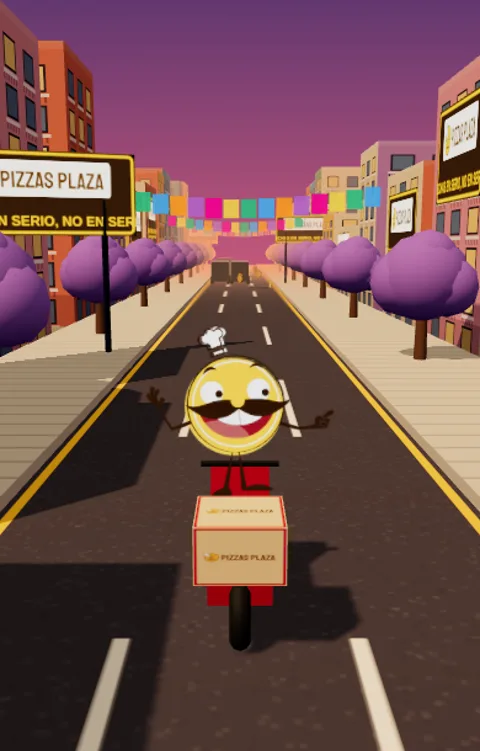
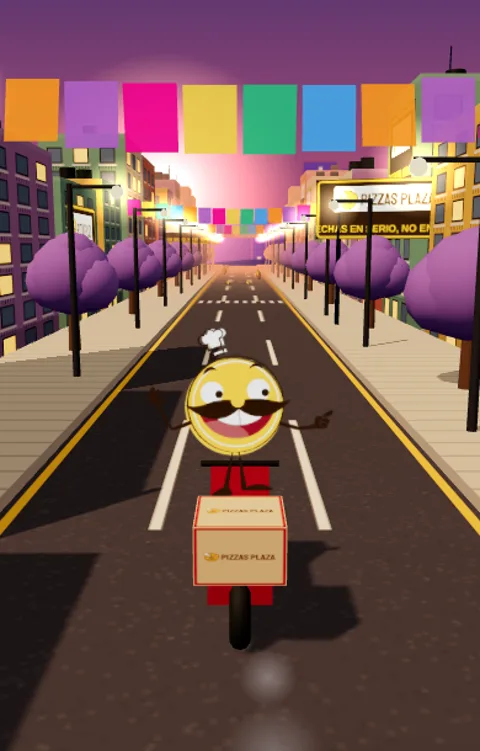
Juegos 3D más bonitos: pizzería completa en Torre; ciudad con luces, tinacos y humo en Reparto
Claude-Session: https://claude.ai/code/session_019rUShXu8QUnKqHiJVXwCAX

diff --git a/juegos/reparto-plaza/index.html b/juegos/reparto-plaza/index.html
@@ -88,7 +88,7 @@ const rnd=(a,b)=>a+Math.random()*(b-a), elige=a=>a[Math.random()*a.length|0];
 const cv=$('gl');
 const ren=new THREE.WebGLRenderer({canvas:cv,antialias:true});
 ren.setPixelRatio(Math.min(1.75,devicePixelRatio||1)); ren.shadowMap.enabled=true; ren.shadowMap.type=THREE.PCFSoftShadowMap;
-ren.outputColorSpace=THREE.SRGBColorSpace; ren.toneMapping=THREE.ACESFilmicToneMapping; ren.toneMappingExposure=1.1;
+ren.outputColorSpace=THREE.SRGBColorSpace; ren.toneMapping=THREE.ACESFilmicToneMapping; ren.toneMappingExposure=1.05;
 const escena=new THREE.Scene(), cam=new THREE.PerspectiveCamera(60,1,.1,260);
 function tamano(){ const w=innerWidth,h=innerHeight; ren.setSize(w,h,false); cam.aspect=w/h; cam.fov=w<h?68:55; cam.updateProjectionMatrix(); }
 addEventListener('resize',tamano); tamano();
@@ -111,9 +111,11 @@ async function texturas(){
   T.calle.wrapS=T.calle.wrapT=THREE.RepeatWrapping; T.calle.repeat.set(1,LARGO/16);
   T.banqueta=lienzo(128,128,(g,w,h)=>{ g.fillStyle='#CFC6B8'; g.fillRect(0,0,w,h); g.strokeStyle='#A99F92'; g.lineWidth=3; for(let i=0;i<=4;i++){ g.beginPath(); g.moveTo(0,i*h/4); g.lineTo(w,i*h/4); g.stroke(); } });
   T.banqueta.wrapS=T.banqueta.wrapT=THREE.RepeatWrapping; T.banqueta.repeat.set(2,LARGO/4);
-  T.fachadas=COLORES.map(c=>lienzo(256,512,(g,w,h)=>{ g.fillStyle=c; g.fillRect(0,0,w,h); g.fillStyle='rgba(255,255,255,.12)'; g.fillRect(0,0,w,14);
-    for(let y=40;y<h-40;y+=70) for(let x=24;x<w-40;x+=78){ g.fillStyle='#3A3346'; g.fillRect(x,y,46,48); g.fillStyle=Math.random()<.4?'#FFD98A':'#6F86A8'; g.fillRect(x+4,y+4,38,40); g.fillStyle='rgba(255,255,255,.85)'; g.fillRect(x-4,y+50,54,6); g.fillStyle='#2A2433'; for(let k=0;k<6;k++) g.fillRect(x-2+k*9,y+56,2,10); }
-    g.fillStyle='rgba(0,0,0,.18)'; g.fillRect(0,h-60,w,60); }));
+  T.fachadas=[]; T.luces=[]; COLORES.forEach(c=>{ const ven=[]; for(let y=40;y<512-40;y+=70) for(let x=24;x<256-40;x+=78) ven.push([x,y,Math.random()<.38]);
+    T.fachadas.push(lienzo(256,512,(g,w,h)=>{ g.fillStyle=c; g.fillRect(0,0,w,h); g.fillStyle='rgba(255,255,255,.12)'; g.fillRect(0,0,w,14);
+      ven.forEach(([x,y,on])=>{ g.fillStyle='#3A3346'; g.fillRect(x,y,46,48); g.fillStyle=on?'#FFD98A':'#6F86A8'; g.fillRect(x+4,y+4,38,40); g.fillStyle='rgba(255,255,255,.85)'; g.fillRect(x-4,y+50,54,6); g.fillStyle='#2A2433'; for(let k=0;k<6;k++) g.fillRect(x-2+k*9,y+56,2,10); });
+      g.fillStyle='rgba(0,0,0,.18)'; g.fillRect(0,h-60,w,60); }));
+    T.luces.push(lienzo(256,512,(g,w,h)=>{ g.fillStyle='#000'; g.fillRect(0,0,w,h); ven.forEach(([x,y,on])=>{ if(on){ g.fillStyle='#FFB54A'; g.fillRect(x+4,y+4,38,40); } }); })); });
   T.letrero=lienzo(1024,420,(g,w,h)=>{ g.fillStyle='#422913'; g.beginPath(); g.roundRect(0,0,w,h,30); g.fill(); g.strokeStyle='#FCC10C'; g.lineWidth=14; g.beginPath(); g.roundRect(14,14,w-28,h-28,24); g.stroke();
     if(logo){ const lw=w*.7, lh=lw*logo.height/logo.width; g.fillStyle='#FFF8E7'; g.beginPath(); g.roundRect(w/2-lw/2-20,48,lw+40,lh+30,20); g.fill(); g.drawImage(logo,w/2-lw/2,63,lw,lh); }
     g.fillStyle='#FCC10C'; g.font='900 70px "Bebas Neue",Impact,sans-serif'; g.textAlign='center'; g.textBaseline='middle'; g.fillText('HECHAS EN SERIO, NO EN SERIE',w/2,h-68); });
@@ -127,12 +129,17 @@ async function texturas(){
 }
 
 // ---------------- mundo ----------------
+const CACHE={}; const C=(k,f)=>CACHE[k]||(CACHE[k]=f());
 const mueve=[]; // todo lo que pasa hacia la cámara y se recicla
 let moto, plaz, ruedas=[], calle;
 function mat(o){ return new THREE.MeshStandardMaterial(Object.assign({roughness:.8},o)); }
 function edificio(lado,z){ const g=new THREE.Group(), w=rnd(6,9), h=rnd(7,15), d=rnd(7,10);
-  const m=new THREE.Mesh(new THREE.BoxGeometry(w,h,d),[mat({map:elige(T.fachadas)}),mat({map:elige(T.fachadas)}),mat({color:0x8A7F8C}),mat({color:0x555}),mat({map:elige(T.fachadas)}),mat({map:elige(T.fachadas)})]);
-  m.position.y=h/2; m.castShadow=m.receiveShadow=true; g.add(m);
+  const fa=()=>{ const k=Math.random()*T.fachadas.length|0; return mat({map:T.fachadas[k],emissiveMap:T.luces[k],emissive:0xFFFFFF,emissiveIntensity:.9}); };
+  const m=new THREE.Mesh(new THREE.BoxGeometry(w,h,d),[fa(),fa(),mat({color:0x8A7F8C}),mat({color:0x555}),fa(),fa()]);
+  m.position.y=h/2;
+  // tinacos y antena en la azotea
+  for(let t=0;t<1+(Math.random()*2|0);t++){ const ti=new THREE.Mesh(C('tg',()=>new THREE.CylinderGeometry(.55,.55,1.1,14)),C('tm',()=>mat({color:0x1C1C1C,roughness:.5}))); ti.position.set(rnd(-w/3,w/3),h+.55,rnd(-d/3,d/3)); ti.castShadow=true; g.add(ti); }
+  if(Math.random()<.5){ const an=new THREE.Mesh(C('ag',()=>new THREE.CylinderGeometry(.04,.04,2.4,5)),C('am',()=>mat({color:0x444}))); an.position.set(rnd(-w/3,w/3),h+1.2,rnd(-d/3,d/3)); g.add(an); } m.castShadow=m.receiveShadow=true; g.add(m);
   if(Math.random()<.35){ const t=new THREE.Mesh(new THREE.PlaneGeometry(d*.8,4),new THREE.MeshBasicMaterial({map:T.letrero})); t.position.set(-lado*(w/2+.05),h-3.2,0); t.rotation.y=-lado*Math.PI/2; g.add(t); }
   g.position.set(lado*(9+w/2),0,z); g.userData={tipo:'deco',lado}; escena.add(g); mueve.push(g); }
 function jacaranda(lado,z){ const g=new THREE.Group(); const tr=new THREE.Mesh(new THREE.CylinderGeometry(.18,.25,2.6,8),mat({color:0x6B4A2E})); tr.position.y=1.3; tr.castShadow=true; g.add(tr);
@@ -141,6 +148,15 @@ function jacaranda(lado,z){ const g=new THREE.Group(); const tr=new THREE.Mesh(n
 function espectacular(lado,z){ const g=new THREE.Group(); const p=mat({color:0x333}); [-2.4,2.4].forEach(x=>{ const c=new THREE.Mesh(new THREE.CylinderGeometry(.12,.12,6,8),p); c.position.set(x,3,0); g.add(c); });
   const t=new THREE.Mesh(new THREE.BoxGeometry(7.2,3,.2),[p,p,p,p,new THREE.MeshBasicMaterial({map:T.letrero}),p]); t.position.y=6.2; t.castShadow=true; g.add(t);
   g.position.set(lado*7.4,0,z); g.rotation.y=-lado*.35; g.userData={tipo:'deco'}; escena.add(g); mueve.push(g); }
+const humo=[]; let humoT=0;
+function poste(lado,z){ const g=new THREE.Group(); const gris=C('pm',()=>mat({color:0x3B3B44,roughness:.5,metalness:.4}));
+  const p=new THREE.Mesh(C('pg',()=>new THREE.CylinderGeometry(.09,.12,6.2,8)),gris); p.position.y=3.1; p.castShadow=true; g.add(p);
+  const b=new THREE.Mesh(C('bg',()=>new THREE.BoxGeometry(1.6,.1,.1)),gris); b.position.set(-lado*.75,6.1,0); g.add(b);
+  const f=new THREE.Mesh(C('fg',()=>new THREE.SphereGeometry(.2,10,8)),C('fm',()=>new THREE.MeshBasicMaterial({color:0xFFE7B0}))); f.position.set(-lado*1.45,5.95,0); g.add(f);
+  const gl=new THREE.Sprite(C('gl',()=>new THREE.SpriteMaterial({map:lienzo(64,64,(c,w,h)=>{ const gr=c.createRadialGradient(32,32,0,32,32,32); gr.addColorStop(0,'rgba(255,220,150,.9)'); gr.addColorStop(1,'rgba(255,180,90,0)'); c.fillStyle=gr; c.fillRect(0,0,64,64); }),blending:THREE.AdditiveBlending,depthWrite:false,transparent:true}))); gl.scale.set(2.2,2.2,1); gl.position.copy(f.position); g.add(gl);
+  g.position.set(lado*5.2,0,z); g.userData={tipo:'deco'}; escena.add(g); mueve.push(g); }
+function cebra(z){ const m=new THREE.Mesh(C('cg',()=>new THREE.PlaneGeometry(CARRIL*3,2.6)),C('cm',()=>new THREE.MeshStandardMaterial({map:lienzo(256,64,(g,w,h)=>{ g.clearRect(0,0,w,h); g.fillStyle='rgba(245,240,230,.92)'; for(let x=6;x<w;x+=26) g.fillRect(x,0,14,h); }),transparent:true,roughness:.9})));
+  m.rotation.x=-Math.PI/2; m.position.set(0,.015,z); m.receiveShadow=true; m.userData={tipo:'deco'}; escena.add(m); mueve.push(m); }
 function papelPicado(z){ const g=new THREE.Group(); const cols=[0xE4007C,0xFCC10C,0x00A86B,0x1E90FF,0xFF7A00,0x9B59B6];
   for(let i=0;i<16;i++){ const b=new THREE.Mesh(new THREE.PlaneGeometry(.9,1.1),new THREE.MeshBasicMaterial({color:cols[i%6],side:THREE.DoubleSide,transparent:true,opacity:.92})); const x=-7.5+i; b.position.set(x,7.2-Math.cos(x/7.5*1.4)*.8,0); g.add(b); }
   g.position.z=z; g.userData={tipo:'deco',ondea:true}; escena.add(g); mueve.push(g); }
@@ -158,6 +174,16 @@ async function mundo(){
   for(let z=4;z>-LARGO+20;z-=16){ jacaranda(-1,z); jacaranda(1,z-8); }
   for(let z=-30;z>-LARGO+20;z-=55) espectacular(Math.random()<.5?-1:1,z);
   for(let z=-20;z>-LARGO+20;z-=40) papelPicado(z);
+  for(let z=0;z>-LARGO+20;z-=14){ poste(-1,z); poste(1,z-7); }
+  for(let z=-45;z>-LARGO+20;z-=60) cebra(z);
+  const brillo=lienzo(128,128,(g,w,h)=>{ const gr=g.createRadialGradient(w/2,h/2,0,w/2,h/2,w/2); gr.addColorStop(0,'rgba(255,240,200,1)'); gr.addColorStop(.25,'rgba(255,200,120,.8)'); gr.addColorStop(1,'rgba(255,150,80,0)'); g.fillStyle=gr; g.fillRect(0,0,w,h); });
+  const solS=new THREE.Sprite(new THREE.SpriteMaterial({map:brillo,fog:false,depthWrite:false,blending:THREE.AdditiveBlending})); solS.scale.set(90,90,1); solS.position.set(-25,22,-235); escena.add(solS);
+  const sky=lienzo(2048,256,(g,w,h)=>{ g.clearRect(0,0,w,h); let x=0; while(x<w){ const bw=30+Math.random()*90, bh=40+Math.random()*(Math.random()<.1?200:120); g.fillStyle=`rgba(${90+Math.random()*30|0},${50+Math.random()*20|0},${110+Math.random()*30|0},.85)`; g.fillRect(x,h-bh,bw,bh); for(let k=0;k<bh/14;k++) if(Math.random()<.3){ g.fillStyle='rgba(255,210,140,.7)'; g.fillRect(x+5+Math.random()*(bw-12),h-bh+6+k*14,5,6); } x+=bw+Math.random()*8; }
+    g.fillStyle='rgba(70,40,90,.9)'; g.beginPath(); g.moveTo(0,h); for(let xx=0;xx<=w;xx+=40) g.lineTo(xx,h-30-Math.sin(xx/170)*22-Math.random()*6); g.lineTo(w,h); g.fill(); });
+  const horiz=new THREE.Mesh(new THREE.PlaneGeometry(520,62),new THREE.MeshBasicMaterial({map:sky,transparent:true,fog:false,depthWrite:false})); horiz.position.set(0,24,-238); escena.add(horiz);
+  // humito del escape (sprites reciclados)
+  const humoT=lienzo(64,64,(g,w,h)=>{ const gr=g.createRadialGradient(32,32,0,32,32,32); gr.addColorStop(0,'rgba(235,225,235,.9)'); gr.addColorStop(1,'rgba(235,225,235,0)'); g.fillStyle=gr; g.fillRect(0,0,64,64); });
+  for(let i=0;i<14;i++){ const sp=new THREE.Sprite(new THREE.SpriteMaterial({map:humoT,transparent:true,depthWrite:false,opacity:0})); escena.add(sp); humo.push({sp,vida:0}); }
   // moto de reparto con caja Pizzas Plaza
   moto=new THREE.Group(); const rojo=mat({color:0xC8102E,roughness:.4,metalness:.3}), negro=mat({color:0x1B1B1B,roughness:.6});
   const cuerpo=new THREE.Mesh(new THREE.BoxGeometry(.7,.5,1.9),rojo); cuerpo.position.y=.75; moto.add(cuerpo);
@@ -176,7 +202,6 @@ async function mundo(){
 let listo=false, estado='menu', vel=0, dist=0, vidas=3, entregas=0, puntos=0, carril=0, x=0, y=0, vy=0, inv=0, prox=30, proxPedido=0, reloj=0, pedidoVivo=false;
 const cosas=[]; // obstáculos, monedas y pedidos
 function quitar(o){ escena.remove(o); const i=cosas.indexOf(o); if(i>=0) cosas.splice(i,1); }
-const CACHE={}; const C=(k,f)=>CACHE[k]||(CACHE[k]=f());
 function cono(c,z){ const g=new THREE.Group(); const m=new THREE.Mesh(C('k1',()=>new THREE.ConeGeometry(.42,1.05,16)),C('k16',()=>mat({color:0xFF6A13}))); m.position.y=.53; m.castShadow=true; g.add(m);
   const fr=new THREE.Mesh(C('k2',()=>new THREE.CylinderGeometry(.3,.33,.16,16)),C('k17',()=>mat({color:0xFFFFFF}))); fr.position.y=.55; g.add(fr); const b=new THREE.Mesh(C('k3',()=>new THREE.BoxGeometry(.9,.08,.9)),C('k18',()=>mat({color:0x222}))); b.position.y=.04; g.add(b);
   return pon(g,c,z,{tipo:'obst',brinca:true}); }
@@ -217,7 +242,8 @@ addEventListener('keydown',e=>{ if(e.key==='ArrowLeft') mover(-1); if(e.key==='A
 // ---------------- flujo ----------------
 function empezar(){ SND.on(); if(!listo) return; document.querySelectorAll('.capa').forEach(c=>c.classList.remove('on')); $('hud').classList.add('on'); $('barra').style.display='block'; $('ayuda').style.display='block'; setTimeout(()=>$('ayuda').style.display='none',4000);
   [...cosas].forEach(quitar); vidas=3; entregas=0; puntos=0; carril=0; x=0; y=0; vy=0; inv=1; dist=0; vel=15; prox=0; proxPedido=120; pedidoVivo=false; hud(); pose('pose_2'); estado='jugando'; aviso('¡A REPARTIR!','5 pedidos calientitos 🍕',1200); }
-function golpe(o){ vidas--; inv=1.6; vel=Math.max(13,vel*.75); pose('pose_3',1200); SND.seq([300,220,160],'sawtooth',.07,.08); vib([70,40,70]); chispa(moto.position.clone().setY(1.5),0xFCC10C,16); hud(); if(vidas<=0) perder(); }
+let sacude=0;
+function golpe(o){ sacude=.35; vidas--; inv=1.6; vel=Math.max(13,vel*.75); pose('pose_3',1200); SND.seq([300,220,160],'sawtooth',.07,.08); vib([70,40,70]); chispa(moto.position.clone().setY(1.5),0xFCC10C,16); hud(); if(vidas<=0) perder(); }
 function entregar(o){ entregas++; puntos+=150; pedidoVivo=false; proxPedido=dist+rnd(170,230); pose('feliz',1300); SND.bien(); vib(25); chispa(o.position.clone().setY(1.5),0xC8102E,20); chispa(o.position.clone().setY(2),0xFCC10C,20); quitar(o); hud();
   if(entregas>=META) return ganar(); aviso('¡ENTREGADA!',`Hechas en serio, no en serie · faltan ${META-entregas}`,1300); }
 function ganar(){ estado='fin'; $('barra').style.display='none'; SND.gana(); aviso('¡TODO ENTREGADO!','Hechas en serio, no en serie 🍕',1800); pose('saludando',9); PP.record('reparto-plaza',puntos); setTimeout(()=>PP.ganar(),2000); }
@@ -254,8 +280,12 @@ function bucle(ts){ const dt=Math.min(.05,(ts-prev)/1000); prev=ts; reloj+=dt;
     moto.visible=!(inv>0&&Math.floor(reloj*14)%2&&estado==='jugando');
     if(poseT>0){ poseT-=dt; if(poseT<=0) pose('pose_2'); }
     for(let i=chispas.length-1;i>=0;i--){ const c=chispas[i]; c.vida-=dt*1.3; c.v.y-=12*dt; c.m.position.addScaledVector(c.v,dt); c.m.rotation.x+=dt*8; if(c.vida<=0){ escena.remove(c.m); chispas.splice(i,1); } }
+    humoT-=dt; if(humoT<=0&&(estado==='jugando'||estado==='menu')){ humoT=.07; const h=humo.find(o=>o.vida<=0); if(h){ h.vida=1; h.sp.position.set(x+.25,y+.45,1.2); h.sp.scale.setScalar(.3); } }
+    humo.forEach(h=>{ if(h.vida>0){ h.vida-=dt*2.8; h.sp.position.z+=avance*.35+dt*1.2; h.sp.position.y+=dt*.5; h.sp.scale.setScalar(.25+(1-h.vida)*.7); h.sp.material.opacity=Math.max(0,h.vida*.4); } });
+    const fovB=innerWidth<innerHeight?68:55, fovO=fovB+(estado==='jugando'?(vel-15)*.55:0); if(Math.abs(cam.fov-fovO)>.05){ cam.fov+=(fovO-cam.fov)*Math.min(1,dt*3); cam.updateProjectionMatrix(); }
+    if(sacude>0){ sacude-=dt; }
     // cámara detrás de la moto
-    const cx=x*.55; cam.position.x+=(cx-cam.position.x)*Math.min(1,dt*5); cam.position.y=4.3+y*.3; cam.position.z=8.2; cam.lookAt(x*.7,1.3,-8);
+    const cx=x*.55; cam.position.x+=(cx-cam.position.x)*Math.min(1,dt*5); cam.position.y=4.3+y*.3; cam.position.z=8.2; cam.lookAt(x*.7,1.3,-8); if(sacude>0){ cam.position.x+=(Math.random()-.5)*sacude*1.5; cam.position.y+=(Math.random()-.5)*sacude*1.5; }
     sol.position.set(-12+x,20,6); sol.target.position.set(x,0,-6);
   }
   ren.render(escena,cam); requestAnimationFrame(bucle); }

diff --git a/juegos/torre-de-cajas/index.html b/juegos/torre-de-cajas/index.html
@@ -98,7 +98,7 @@ addEventListener('resize',tamano); tamano();
 function lienzo(w,h,fn){ const c=document.createElement('canvas'); c.width=w; c.height=h; fn(c.getContext('2d'),w,h); const t=new THREE.CanvasTexture(c); t.colorSpace=THREE.SRGBColorSpace; t.anisotropy=ren.capabilities.getMaxAnisotropy(); return t; }
 // cielo de pizzería: degradado cálido
 escena.background=lienzo(4,256,(g,w,h)=>{ const gr=g.createLinearGradient(0,0,0,h); gr.addColorStop(0,'#5B2A12'); gr.addColorStop(.45,'#C8692A'); gr.addColorStop(1,'#F6D59A'); g.fillStyle=gr; g.fillRect(0,0,w,h); });
-escena.fog=new THREE.Fog(0xE9B977,30,70);
+escena.fog=new THREE.Fog(0x8A4A26,26,62);
 
 escena.add(new THREE.HemisphereLight(0xFFF1D6,0x7A4A22,1.1));
 const sol=new THREE.DirectionalLight(0xFFE2B0,2.4); sol.position.set(6,14,8); sol.castShadow=true; sol.shadow.mapSize.set(1024,1024);
@@ -143,13 +143,41 @@ async function mundo(){
   const pala=new THREE.Mesh(new THREE.CylinderGeometry(2.9,2.9,.25,48),madera); pala.position.y=.125; pala.receiveShadow=pala.castShadow=true; escena.add(pala);
   const mango=new THREE.Mesh(new THREE.BoxGeometry(.6,.2,4),madera); mango.position.set(0,.1,4.6); mango.castShadow=true; escena.add(mango);
   // letrero de la pizzería al fondo
-  const let1=new THREE.Mesh(new THREE.PlaneGeometry(9,3.7),new THREE.MeshBasicMaterial({map:TEX.letrero,transparent:true,fog:false})); let1.position.set(9,8,-10); escena.add(let1); mundo.letrero=let1;
+  const let1=new THREE.Mesh(new THREE.PlaneGeometry(11,4.5),new THREE.MeshBasicMaterial({map:TEX.letrero,transparent:true,fog:false})); let1.position.set(9,8,-10); escena.add(let1); mundo.letrero=let1;
   // horno de leña al fondo (domo de ladrillo con fuego)
   const domo=new THREE.Mesh(new THREE.SphereGeometry(3.4,32,16,0,Math.PI*2,0,Math.PI/2),new THREE.MeshStandardMaterial({color:0xB5532C,roughness:.9})); domo.position.set(2,0,-17); domo.castShadow=true; escena.add(domo);
   const boca=new THREE.Mesh(new THREE.CircleGeometry(1.4,32,0,Math.PI),new THREE.MeshBasicMaterial({color:0xFF8A2A})); boca.position.set(2,.05,-13.9); escena.add(boca);
   const fuego=new THREE.PointLight(0xFF7A1A,40,16,2); fuego.position.set(2,1.2,-13.2); escena.add(fuego); mundo.fuego=fuego;
   // pilas de cajas decorativas y salero/aceitera
   [[-7,-3],[-8,1],[7,3]].forEach(([x,z],k)=>{ for(let i=0;i<3+k;i++){ const b=caja(x+(Math.random()-.5)*.2,.31+i*ALTO,z+(Math.random()-.5)*.2,W0,D0); b.rotation.y=(Math.random()-.5)*.3; } });
+  // pared de ladrillo alrededor (cilindro visto por dentro)
+  const ladr=lienzo(1024,512,(g,w,h)=>{ g.fillStyle='#6E3420'; g.fillRect(0,0,w,h); const bh=32,bw=96;
+    for(let y=0,f=0;y<h;y+=bh,f++) for(let x=(f%2)*-bw/2;x<w;x+=bw){ const r=150+Math.random()*50|0; g.fillStyle=`rgb(${r},${70+Math.random()*30|0},${45+Math.random()*20|0})`; g.fillRect(x+3,y+3,bw-6,bh-6); g.fillStyle='rgba(255,255,255,.06)'; g.fillRect(x+3,y+3,bw-6,5); } });
+  ladr.wrapS=ladr.wrapT=THREE.RepeatWrapping; ladr.repeat.set(10,8);
+  const pared=new THREE.Mesh(new THREE.CylinderGeometry(24,24,70,48,1,true),new THREE.MeshStandardMaterial({map:ladr,side:THREE.BackSide,roughness:.95})); pared.position.y=30; escena.add(pared);
+  // repisas con frascos, pizarrón del menú y ventanas, alrededor de la pared
+  const madera2=new THREE.MeshStandardMaterial({color:0x7A4A24,roughness:.7}), vidrio=[0xE8B04A,0xC8102E,0x7FB069,0xF4E1C1].map(c=>new THREE.MeshStandardMaterial({color:c,roughness:.25,metalness:.1}));
+  const menu=lienzo(512,640,(g,w,h)=>{ g.fillStyle='#1F2A24'; g.fillRect(0,0,w,h); g.strokeStyle='#A8693A'; g.lineWidth=24; g.strokeRect(12,12,w-24,h-24); g.fillStyle='#F4F1E8'; g.textAlign='center';
+    g.font='900 64px "Bebas Neue",Impact'; g.fillText('MENÚ',w/2,96); g.font='800 34px Nunito,sans-serif'; ['Margarita','Pepperoni','Hawaiana','Mexicana','4 Quesos','Plázido Especial'].forEach((t,i)=>{ g.textAlign='left'; g.fillText('🍕 '+t,48,180+i*66); }); g.fillStyle='#FCC10C'; g.textAlign='center'; g.font='900 40px "Bebas Neue",Impact'; g.fillText('HECHAS EN SERIO, NO EN SERIE',w/2,h-50); });
+  const pon=(obj,ang,y,r=23.4)=>{ obj.position.set(Math.cos(ang)*r,y,Math.sin(ang)*r); obj.lookAt(0,y,0); escena.add(obj); return obj; };
+  for(let k=0;k<10;k++){ const a=k/10*Math.PI*2; for(let n=0;n<3;n++){ const y=3+n*7+(k%2)*3.5;
+      const rep=new THREE.Group(); const tabla=new THREE.Mesh(new THREE.BoxGeometry(5,.25,1.2),madera2); tabla.castShadow=true; rep.add(tabla);
+      for(let j=0;j<5;j++){ const fr=new THREE.Mesh(new THREE.CylinderGeometry(.28,.28,.9+Math.random()*.6,12),vidrio[(j+k+n)%4]); fr.position.set(-2+j,.6,0); rep.add(fr); }
+      pon(rep,a,y,23); } 
+    if(k%2===0) pon(new THREE.Mesh(new THREE.PlaneGeometry(5,6.25),new THREE.MeshStandardMaterial({map:menu,roughness:.9})),a+.3,8+(k%4)*4,23.8); }
+  // foquitos colgantes (series de luces)
+  const foco=new THREE.MeshBasicMaterial({color:0xFFD27A}), cable=new THREE.LineBasicMaterial({color:0x2A1A0C});
+  for(let k=0;k<8;k++){ const a1=k/8*Math.PI*2, a2=(k+1)/8*Math.PI*2, y=10+(k%3)*5; const p1=new THREE.Vector3(Math.cos(a1)*23,y,Math.sin(a1)*23), p2=new THREE.Vector3(Math.cos(a2)*23,y,Math.sin(a2)*23); const pts=[];
+    for(let i=0;i<=14;i++){ const t=i/14, p=p1.clone().lerp(p2,t); p.y-=Math.sin(t*Math.PI)*2.2; pts.push(p); if(i%2){ const b=new THREE.Mesh(new THREE.SphereGeometry(.16,8,8),foco); b.position.copy(p).setY(p.y-.2); escena.add(b); } }
+    escena.add(new THREE.Line(new THREE.BufferGeometry().setFromPoints(pts),cable)); }
+  // lámpara colgante sobre la torre
+  const pantalla=new THREE.Mesh(new THREE.ConeGeometry(1.4,1.1,32,1,true),new THREE.MeshStandardMaterial({color:0xC8102E,side:THREE.DoubleSide,roughness:.5,metalness:.3})); escena.add(pantalla); mundo.lampara=pantalla;
+  const bombilla=new THREE.Mesh(new THREE.SphereGeometry(.35,16,12),new THREE.MeshBasicMaterial({color:0xFFF1C2})); pantalla.add(bombilla); bombilla.position.y=-.45;
+  const luzLamp=new THREE.PointLight(0xFFC27A,26,22,1.6); pantalla.add(luzLamp); luzLamp.position.y=-.8;
+  const cuerda=new THREE.Mesh(new THREE.CylinderGeometry(.04,.04,30,6),new THREE.MeshBasicMaterial({color:0x222222})); cuerda.position.y=15.5; pantalla.add(cuerda);
+  // polvito de harina flotando
+  const pg=new THREE.BufferGeometry(), pp=[]; for(let i=0;i<260;i++) pp.push((Math.random()-.5)*36,Math.random()*40,(Math.random()-.5)*36); pg.setAttribute('position',new THREE.Float32BufferAttribute(pp,3));
+  mundo.polvo=new THREE.Points(pg,new THREE.PointsMaterial({color:0xFFF3D6,size:.09,transparent:true,opacity:.7,depthWrite:false})); escena.add(mundo.polvo);
   mundoListo=true;
 }
 
@@ -161,7 +189,8 @@ let gT; function habla(txt,pose='pose_2',ms=1100){ $('hostImg').src=A[pose]; con
 function limpiar(){ [...pila,...caen.map(c=>c.m)].forEach(m=>{ escena.remove(m); m.geometry.dispose(); }); if(movil) escena.remove(movil.m); pila=[]; caen=[]; movil=null; chispas.forEach(c=>escena.remove(c.m)); chispas=[]; }
 function siguiente(){ const top=pila[pila.length-1], p=top.userData; eje=nivel%2?'z':'x';
   const y=.25+ALTO/2+pila.length*ALTO; const m=caja(eje==='x'?-6:p.x, y, eje==='z'?-6:p.z, p.w, p.d); m.userData={x:m.position.x,z:m.position.z,w:p.w,d:p.d}; movil={m,dir:1}; vel=Math.min(7.5,3.2+nivel*.28); }
-const CH={};
+const CH={}; let sacude=0;
+function polvo(p){ for(let i=0;i<10;i++){ const m=new THREE.Mesh(CH.pg||(CH.pg=new THREE.SphereGeometry(.07,6,6)),CH.pm||(CH.pm=new THREE.MeshBasicMaterial({color:0xFFF3D6,transparent:true,opacity:.55}))); const a=Math.random()*Math.PI*2, r=1.4+Math.random()*.6; m.position.set(p.x+Math.cos(a)*r,p.y-ALTO/2,p.z+Math.sin(a)*r); escena.add(m); chispas.push({m,v:new THREE.Vector3(Math.cos(a)*1.5,1+Math.random(),Math.sin(a)*1.5),vida:.5,polvo:true}); } }
 function chispa(x,y,z,col){ for(let i=0;i<14;i++){ const m=new THREE.Mesh(CH.g||(CH.g=new THREE.BoxGeometry(.12,.12,.12)),CH[col]||(CH[col]=new THREE.MeshBasicMaterial({color:col}))); m.position.set(x,y,z); escena.add(m); const a=Math.random()*Math.PI*2; chispas.push({m,v:new THREE.Vector3(Math.cos(a)*3,2+Math.random()*3,Math.sin(a)*3),vida:1}); } }
 function anillo(p){ const m=new THREE.Mesh(new THREE.RingGeometry(.1,.25,48),new THREE.MeshBasicMaterial({color:0xFCC10C,transparent:true,side:THREE.DoubleSide})); m.rotation.x=-Math.PI/2; m.position.set(p.x,p.y-ALTO/2+.02,p.z); escena.add(m); chispas.push({m,anillo:true,vida:1}); }
 function soltar(){
@@ -188,6 +217,7 @@ function soltar(){
     SND.t(220,.08,'square',.05,-100); vib(8); if(sobra>dim*.35) habla('¡Uy, casi!','pose_3',900);
   }
   const b=caja(nx,m.position.y,nz,nw,nd); b.userData={x:nx,z:nz,w:nw,d:nd}; pila.push(b); if(sobra<.12){ anillo(b.position); chispa(nx,b.position.y+ALTO/2,nz,0xFCC10C); }
+  b.userData.aplasta=.18; sacude=.12; polvo(b.position); SND.t(140,.08,'sine',.08,-40);
   nivel++; hud(); if(nivel>=META) return ganar();
   if(nivel===5) aviso('¡VAS MUY BIEN!','Se va a poner más rápido',1000);
   siguiente();
@@ -207,13 +237,18 @@ const r0=PP.record('torre-de-cajas'); $('record').textContent=r0!==null?`Tu réc
 let prev=performance.now(), reloj=0;
 function bucle(ts){ const dt=Math.min(.04,(ts-prev)/1000); prev=ts; reloj+=dt;
   if(movil&&estado==='jugando'){ const m=movil.m; m.position[eje]+=movil.dir*vel*dt; if(m.position[eje]>6){m.position[eje]=6;movil.dir=-1;} if(m.position[eje]<-6){m.position[eje]=-6;movil.dir=1;} }
-  for(let i=caen.length-1;i>=0;i--){ const c=caen[i]; c.v.y-=18*dt; c.m.position.addScaledVector(c.v,dt); c.m.rotation.x+=c.r.x*dt; c.m.rotation.z+=c.r.z*dt; if(c.m.position.y<-15){ escena.remove(c.m); c.m.geometry.dispose(); caen.splice(i,1); } }
-  for(let i=chispas.length-1;i>=0;i--){ const c=chispas[i]; c.vida-=dt*1.4; if(c.anillo){ const s=1+(1-c.vida)*9; c.m.scale.set(s,s,s); c.m.material.opacity=Math.max(0,c.vida); } else { c.v.y-=9*dt; c.m.position.addScaledVector(c.v,dt); c.m.rotation.x+=dt*6; } if(c.vida<=0){ escena.remove(c.m); if(c.anillo){ c.m.geometry.dispose(); c.m.material.dispose(); } chispas.splice(i,1); } }
+  for(let i=caen.length-1;i>=0;i--){ const c=caen[i]; c.v.y-=18*dt; c.m.position.addScaledVector(c.v,dt); const piso=(Math.hypot(c.m.position.x,c.m.position.z)<2.9?.25:0)+ALTO/2; if(c.m.position.y<piso&&c.m.position.y>piso-1&&!c.piso){ c.m.position.y=piso; c.v.y=Math.abs(c.v.y)*.35; c.v.x*=.6; c.v.z*=.6; c.r.multiplyScalar(.5); if(Math.abs(c.v.y)<1){ c.piso=true; c.v.set(0,0,0); c.r.set(0,0,0); c.t=0; } }
+    if(c.piso){ c.t+=dt; if(c.t>4){ c.m.position.y=-99; } } c.m.rotation.x+=c.r.x*dt; c.m.rotation.z+=c.r.z*dt; if(c.m.position.y<-15){ escena.remove(c.m); c.m.geometry.dispose(); caen.splice(i,1); } }
+  for(let i=chispas.length-1;i>=0;i--){ const c=chispas[i]; c.vida-=dt*1.4; if(c.anillo){ const s=1+(1-c.vida)*9; c.m.scale.set(s,s,s); c.m.material.opacity=Math.max(0,c.vida); } else { c.v.y-=(c.polvo?1:9)*dt; c.m.position.addScaledVector(c.v,dt); c.m.rotation.x+=dt*6; if(c.polvo) c.m.scale.setScalar(Math.max(.01,c.vida*2.4)); } if(c.vida<=0){ escena.remove(c.m); if(c.anillo){ c.m.geometry.dispose(); c.m.material.dispose(); } chispas.splice(i,1); } }
+  pila.forEach(b=>{ const u=b.userData; if(u&&u.aplasta>0){ u.aplasta=Math.max(0,u.aplasta-dt); const k=u.aplasta/.18; b.scale.set(1+.06*k,1-.14*k,1+.06*k); } });
+  if(sacude>0) sacude-=dt;
+  if(mundo.lampara){ mundo.lampara.position.set(Math.sin(reloj*.8)*.3,camY+6.5,Math.cos(reloj*.6)*.3); }
+  if(mundo.polvo){ mundo.polvo.rotation.y+=dt*.02; mundo.polvo.position.y=Math.sin(reloj*.3)*.5; }
   // cámara: sube con la torre y gira despacito
   const alto=.25+pila.length*ALTO; camY+=((alto+4.2)-camY)*Math.min(1,dt*3); const ang=-.75+Math.sin(reloj*.25)*.12+(estado==='menu'?reloj*.15:0), dist=innerWidth<innerHeight?15.5:13;
-  cam.position.set(Math.sin(ang)*dist,camY+5,Math.cos(ang)*dist); cam.lookAt(0,camY-1.6,0);
+  cam.position.set(Math.sin(ang)*dist,camY+5,Math.cos(ang)*dist); cam.lookAt(0,camY-1.6,0); if(sacude>0){ cam.position.x+=(Math.random()-.5)*sacude; cam.position.y+=(Math.random()-.5)*sacude; }
   sol.position.set(6,camY+10,8); sol.target.position.set(0,camY-3,0);
-  if(mundo.letrero){ mundo.letrero.position.y=camY+3.2; mundo.letrero.lookAt(cam.position.x,mundo.letrero.position.y,cam.position.z); }
+  if(mundo.letrero){ const al=Math.atan2(-cam.position.z,-cam.position.x); mundo.letrero.position.set(Math.cos(al)*22,camY+1.2,Math.sin(al)*22); mundo.letrero.lookAt(0,mundo.letrero.position.y,0); }
   if(mundo.fuego) mundo.fuego.intensity=34+Math.sin(reloj*13)*6+Math.sin(reloj*7.3)*5;
   ren.render(escena,cam); requestAnimationFrame(bucle); }
 mundo().then(()=>{ if(estado==='menu'){ for(let i=0;i<4;i++){ const b=caja(0,.25+ALTO/2+i*ALTO,0,W0-i*.25,D0-i*.25); b.rotation.y=i*.06; pila.push(b); } } });
